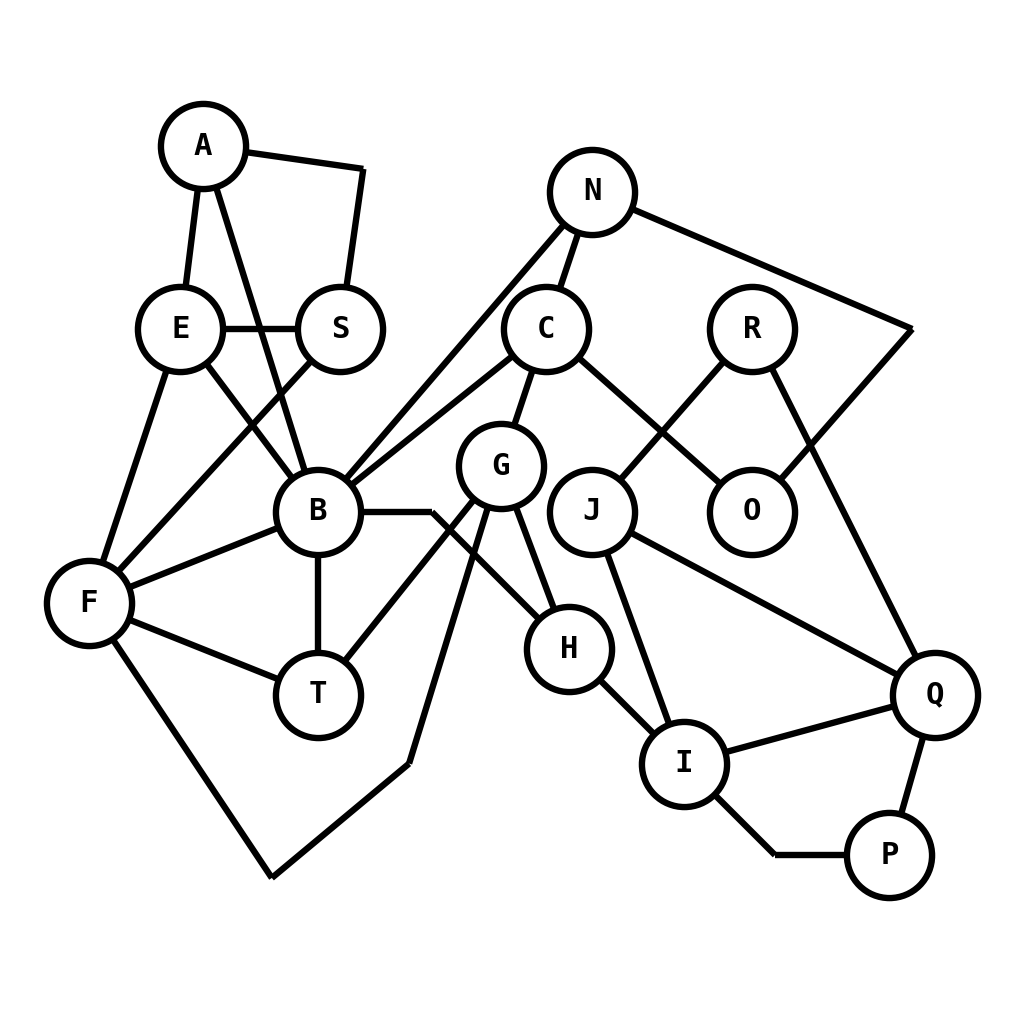
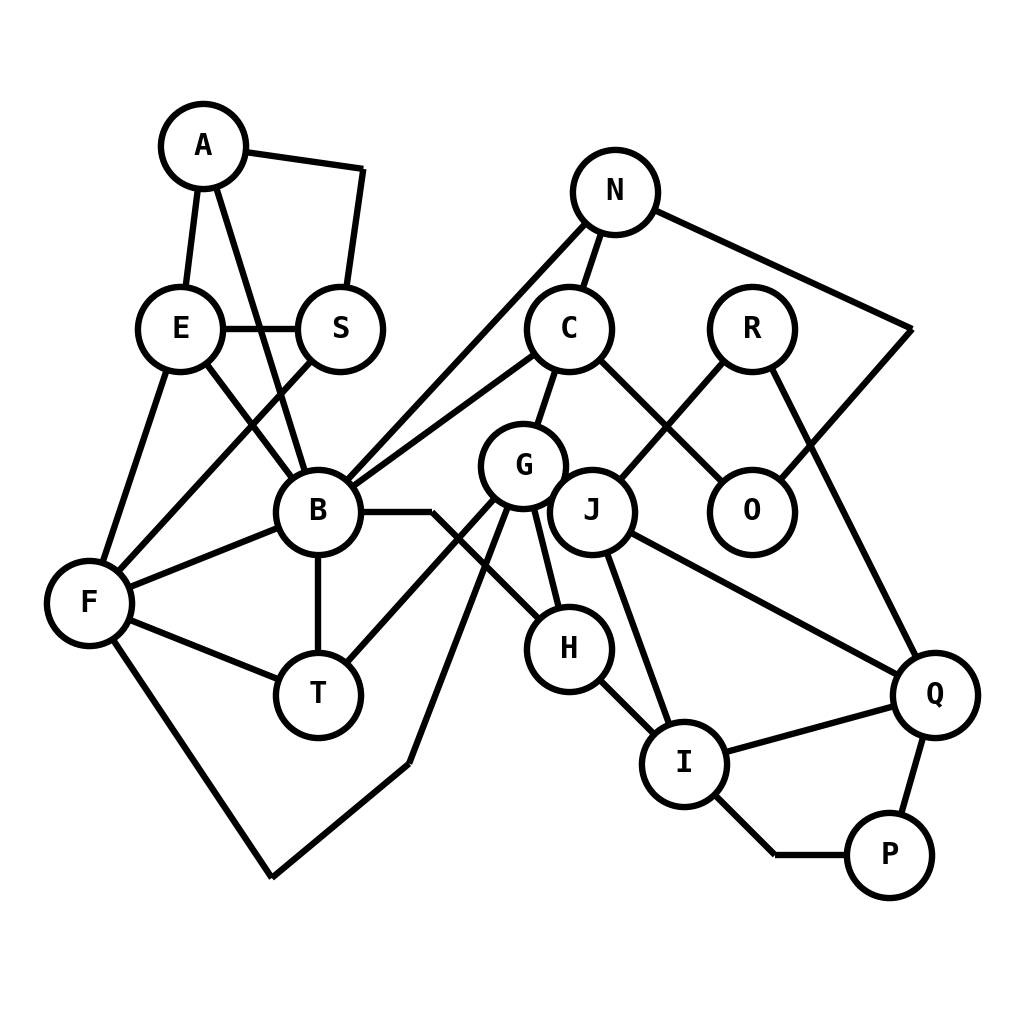
adjust position of -o graph nodes

Changed region(s): [[0.3438, 0.125, 0.8125, 0.7188], [0.3438, 0.5625, 0.4062, 0.6562], [0.8125, 0.2812, 0.875, 0.3125]]

diff --git a/purchase_dataset_recreation/PurchaseOMinus.py b/purchase_dataset_recreation/PurchaseOMinus.py
@@ -18,9 +18,9 @@ OMinus.add_node("S", pos=(3.25, 7.0))
 OMinus.add_node("B", pos=(3.0, 5.0))
 OMinus.add_node("T", pos=(3.0, 3.0))
 
-OMinus.add_node("N", pos=(6.0, 8.5))
-OMinus.add_node("C", pos=(5.5, 7.0))
-OMinus.add_node("G", pos=(5.0, 5.5))
+OMinus.add_node("N", pos=(6.25, 8.5))
+OMinus.add_node("C", pos=(5.75, 7.0))
+OMinus.add_node("G", pos=(5.25, 5.5))
 OMinus.add_node("H", pos=(5.75, 3.5))
 
 OMinus.add_node("R", pos=(7.75, 7.0))
